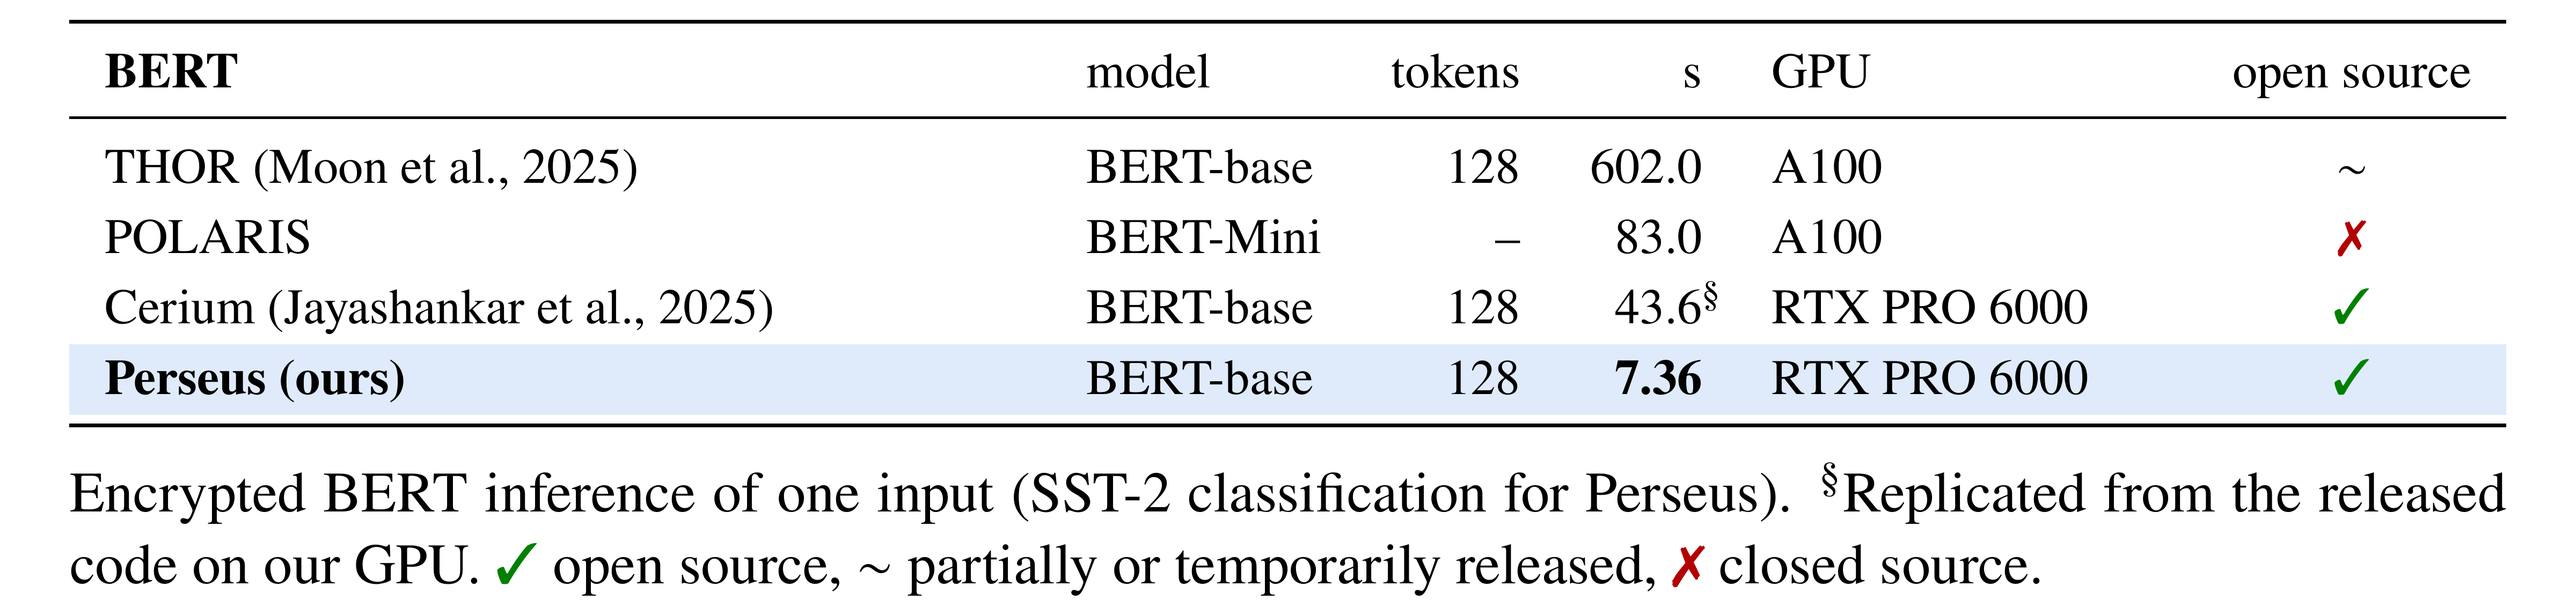
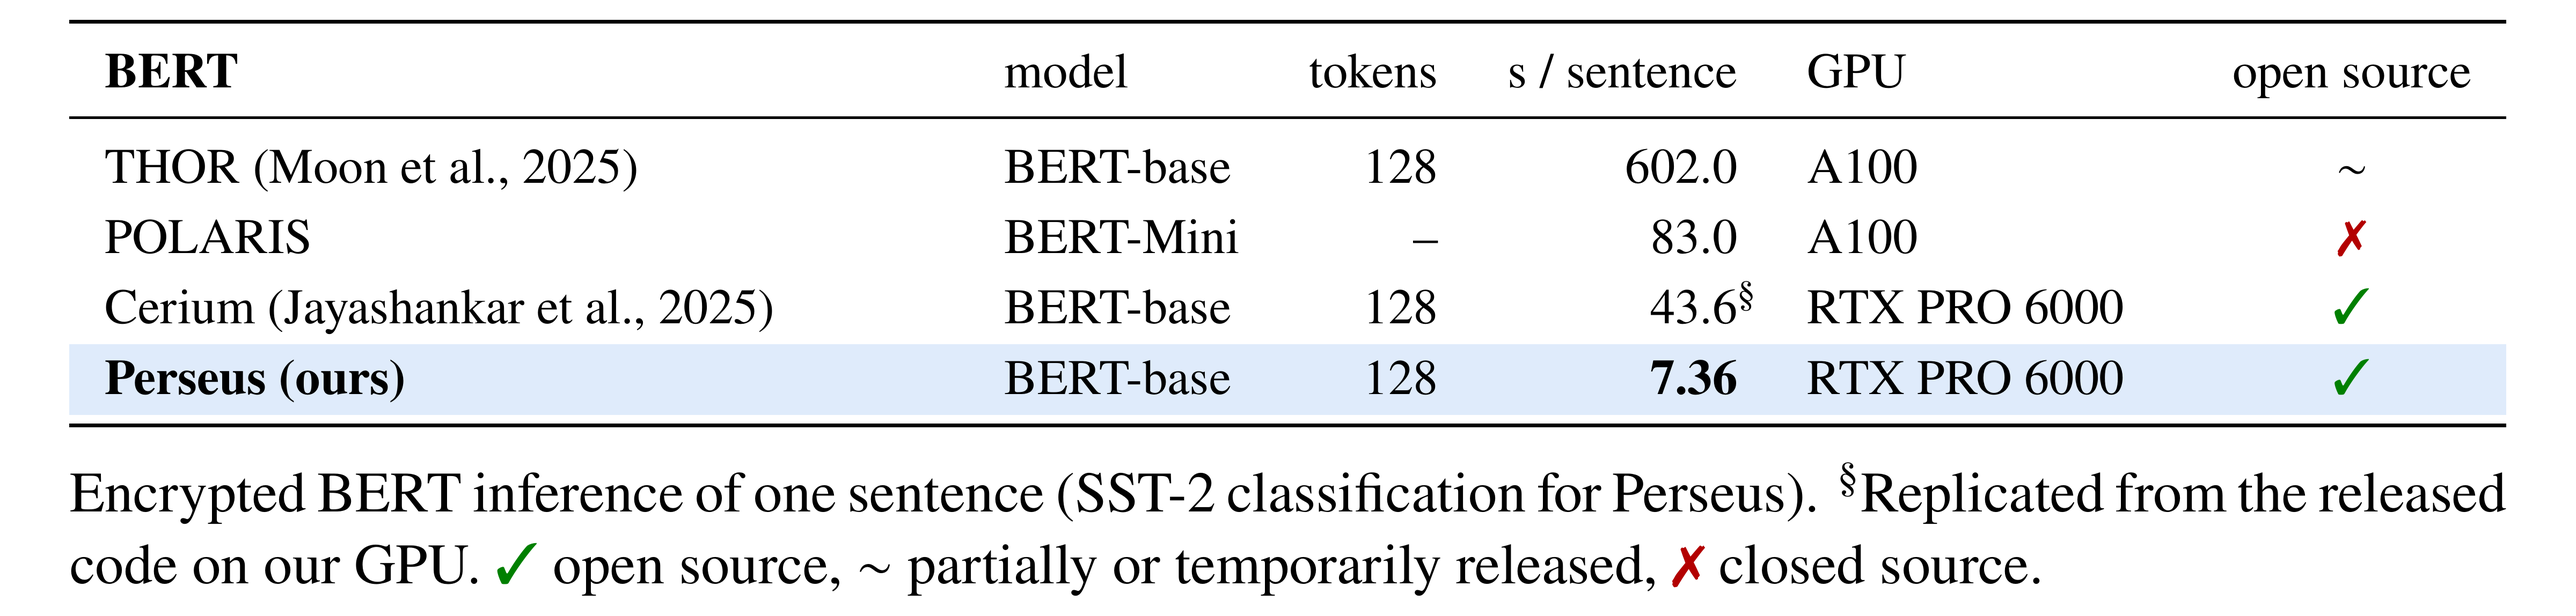
README: BERT table in s / sentence

diff --git a/assets/paper-tables.tex b/assets/paper-tables.tex
@@ -127,7 +127,7 @@ polynomial layers. \legend}
 \begin{tbl}
 \begin{tabularx}{\linewidth}{L{1.4}lrrL{0.6}c}
 \toprule
-\textbf{BERT} & model & tokens & s & GPU & open source \\
+\textbf{BERT} & model & tokens & s / sentence & GPU & open source \\
 \midrule
 THOR (Moon et al., 2025) & BERT-base & 128 & 602.0 & A100 & \semi \\
 POLARIS & BERT-Mini & -- & 83.0 & A100 & \no \\
@@ -135,7 +135,7 @@ Cerium (Jayashankar et al., 2025) & BERT-base & 128 & 43.6\nt{\S} & RTX PRO 6000
 \oursrow\textbf{Perseus (ours)} & BERT-base & 128 & \textbf{\bertin} & RTX PRO 6000 & \yes \\
 \bottomrule
 \end{tabularx}
-\tcap{Encrypted BERT inference of one input (SST-2 classification for Perseus). $^\S$Replicated from the released code on
+\tcap{Encrypted BERT inference of one sentence (SST-2 classification for Perseus). $^\S$Replicated from the released code on
 our GPU. \legend}
 \end{tbl}
 

diff --git a/README.md b/README.md
@@ -95,7 +95,7 @@ ours where the code is released.
     <picture>
       <source media="(prefers-color-scheme: dark)" srcset="assets/paper-tables-bert-dark.png">
       <source media="(prefers-color-scheme: light)" srcset="assets/paper-tables-bert-light.png">
-      <img src="assets/paper-tables-bert-light.png" alt="Encrypted BERT inference of one input, seconds. THOR, BERT-base, 128 tokens, 602.0 on A100; POLARIS, BERT-Mini, 83.0 on A100; Cerium, BERT-base, 128 tokens, 43.6 (replicated on RTX PRO 6000); Perseus, BERT-base, 128 tokens, 7.36 on RTX PRO 6000, open source." width="707">
+      <img src="assets/paper-tables-bert-light.png" alt="Encrypted BERT inference of one sentence, seconds per sentence. THOR, BERT-base, 128 tokens, 602.0 on A100; POLARIS, BERT-Mini, 83.0 on A100; Cerium, BERT-base, 128 tokens, 43.6 (replicated on RTX PRO 6000); Perseus, BERT-base, 128 tokens, 7.36 on RTX PRO 6000, open source." width="707">
     </picture>
   </a>
 </p>
